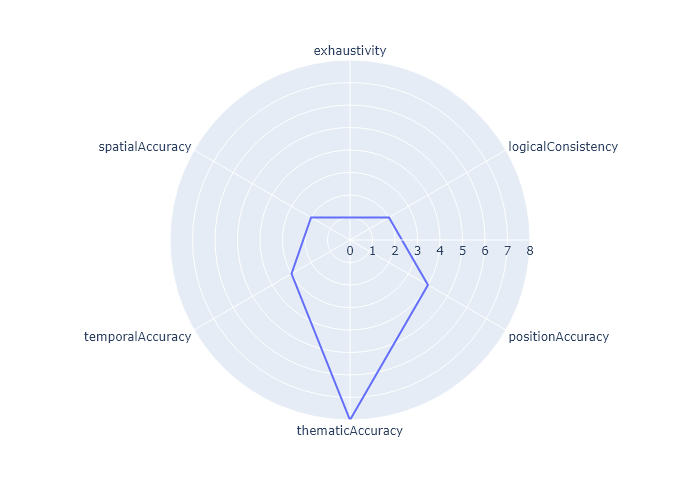
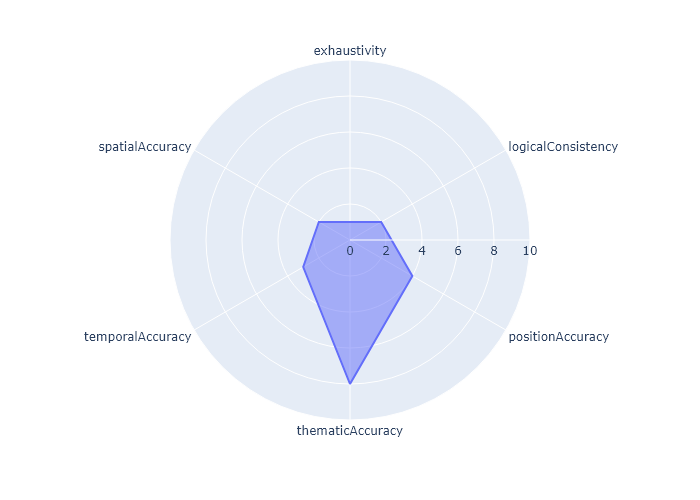
ajout stars

Changed region(s): [[0.42, 0.42, 0.66, 0.84], [0.75, 0.48, 0.78, 0.51], [0.69, 0.48, 0.72, 0.51]]

diff --git a/script.py b/script.py
@@ -67,16 +67,59 @@ f = open("report.html", "w")
 
 # write html
 html = """<html>
-<head></head>
+<head>
+</head>
 <body>"""
 
 f.write("<html>")
-f.write("<head></head>")
+f.write("<head>")
+f.write('<link rel="stylesheet" href="https://cdnjs.cloudflare.com/ajax/libs/font-awesome/4.7.0/css/font-awesome.min.css">')
+f.write("""<style>
+.checked {
+  color: orange;
+}
+</style>
+""")
+f.write("</head>")
 f.write("<body>")
 f.write("<h1>QuaDoGeo Report</h1>")
 
-# Radar
-print("## Synthèse")
+def render_stars(nStars) :
+	nNonStars = 10 - nStars
+	elt_checked = '<span class="fa fa-star checked"></span>'
+	elt_notChecked = '<span class="fa fa-star"></span>'
+	elts_checked = '\n'.join([elt_checked]*nStars)
+	elts_notChecked = '\n'.join([elt_notChecked]*nNonStars)
+	elts = "%s%s"%(elts_checked, elts_notChecked)
+	return(elts)
+
+
+# Radar data frame
+def render_radar(values, labels, output_plot):
+
+	df = pd.DataFrame(dict(
+		r=values,
+		theta=labels))
+		
+	fig = px.line_polar(df, r='r', theta='theta', line_close=True)
+	fig.update_traces(fill='toself')
+	fig.update_layout(
+		polar=dict(
+		radialaxis=dict(
+			visible=True,
+		range=[0, 10]
+		)))
+	fig.write_image(output_plot)
+	
+	f.write(("<img src='%s'></img>")%(output_plot))
+
+
+#-----------------------------
+# Radar métriques calculées
+#-----------------------------
+print("## Radar métriques calculées")
+
+f.write(("<h2>%s</h2>")%("Indicateurs de qualité calculés"))
 
 synthese = root.find('synthese')
 
@@ -85,19 +128,43 @@ values = list()
 for elt in synthese:
 	labels.append(elt.tag)
 	values.append(int(elt.text))
+	stars = render_stars(int(elt.text))
+	f.write(("<p>%s : %s</p>")%(elt.tag, stars))
 print(labels)
 print(values)	
 
-# Radar data frame
-df = pd.DataFrame(dict(
-    r=values,
-    theta=labels))
-    
-fig = px.line_polar(df, r='r', theta='theta', line_close=True)
-fig.write_image('radar.png')
-f.write("<img src='radar.png'></img>")
+render_radar(values, labels, 'radar.png')
 
+
+#-----------------------------
+# Radar métriques nécessaires
+#-----------------------------
+
+print("## Radars selon usages")
+
+usages = root.find('usages')
+
+for usage in usages:
+	usageType = usage.attrib["type"]
+	usageDescription = usage.attrib["description"]
+	f.write(("<h2>%s</h2>")%(usageDescription))
+	print(usageType)
+	labels = list()
+	values = list()
+	for elt in usage:
+		labels.append(elt.tag)
+		values.append(int(elt.text))
+		stars = render_stars(int(elt.text))
+		f.write(("<p>%s : %s</p>")%(elt.tag, stars))
+	print(labels)
+	print(values)
+	output_plot = ("radar-%s.png")%(usageType)
+	render_radar(values, labels, output_plot)
+
+
+#-----------------------------
 # Render groups
+#-----------------------------
 render_group("exhaustivity")
 render_group("logicalConsistency")
 render_group("positionAccuracy")

diff --git a/TODO.md b/TODO.md
@@ -1,0 +1,7 @@
+# XML
+## Attributs
+- rajouter description
+- rajouter type d'usage à synthese, et à métriques
+
+# Process
+- Calcul de la note pour le radar en fonction des valeurs
